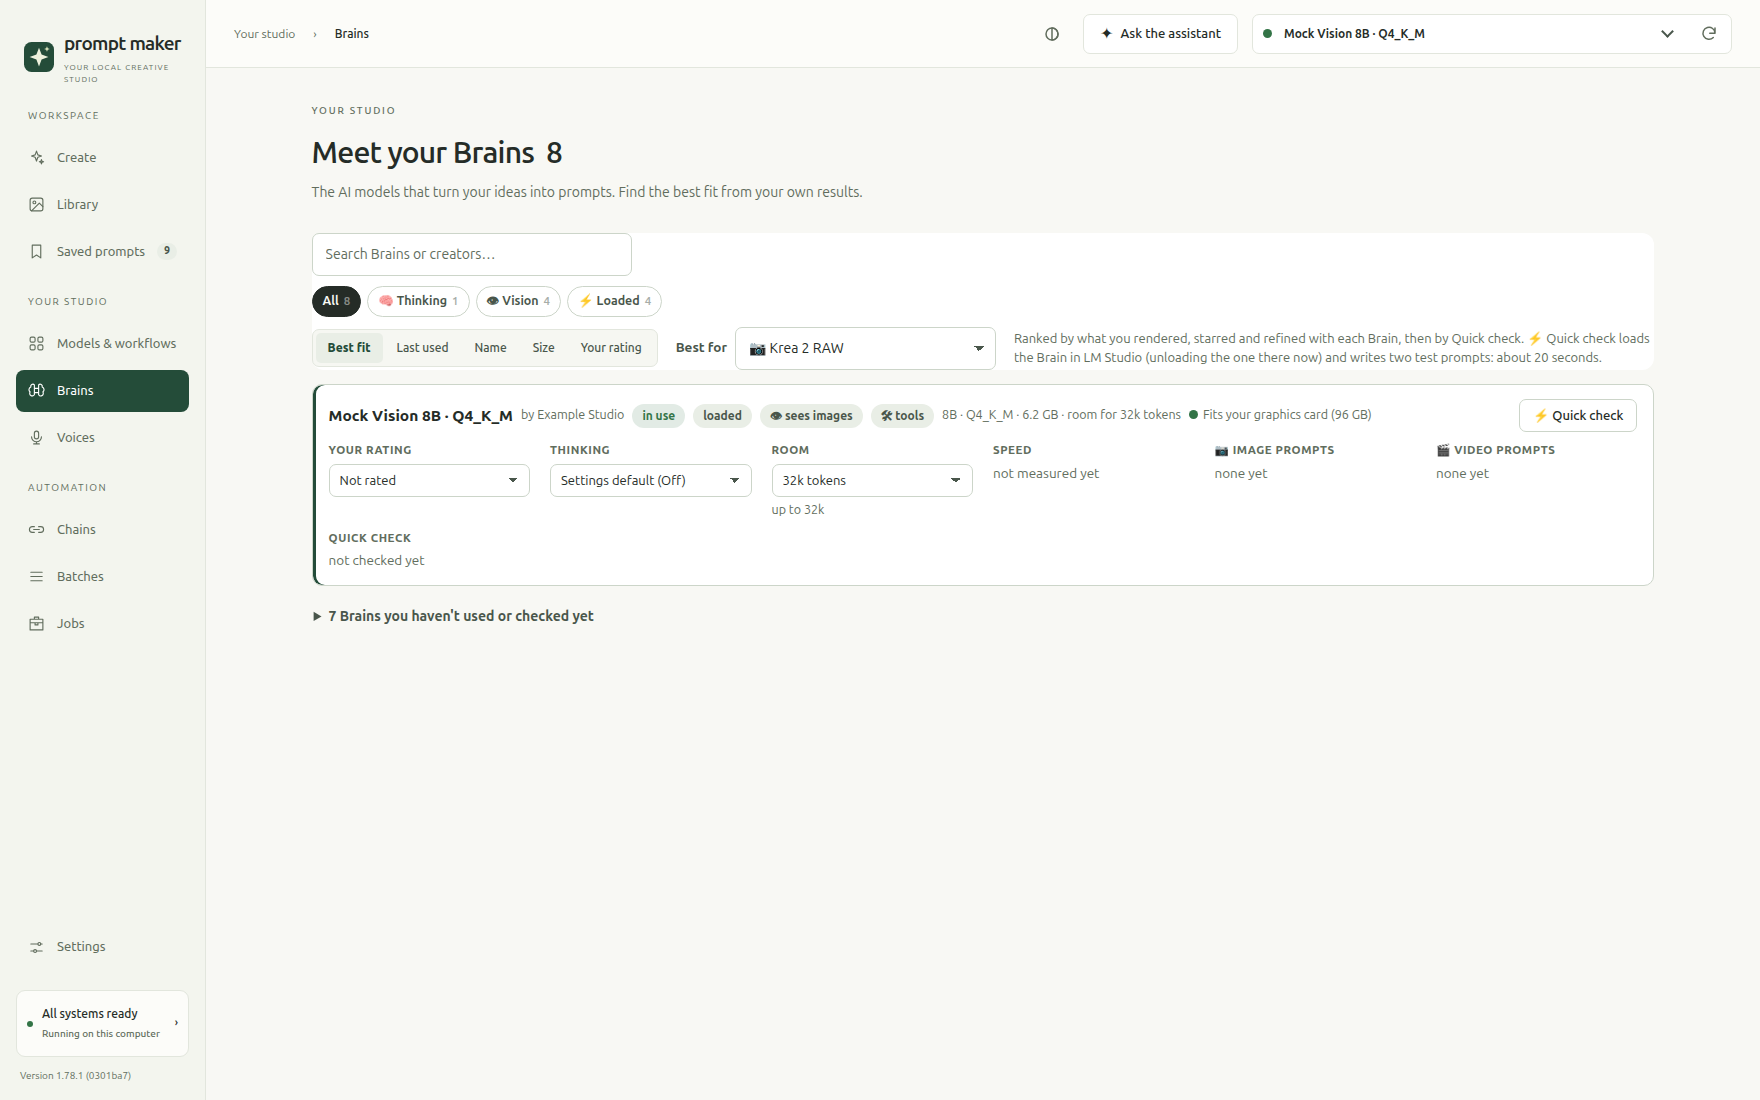
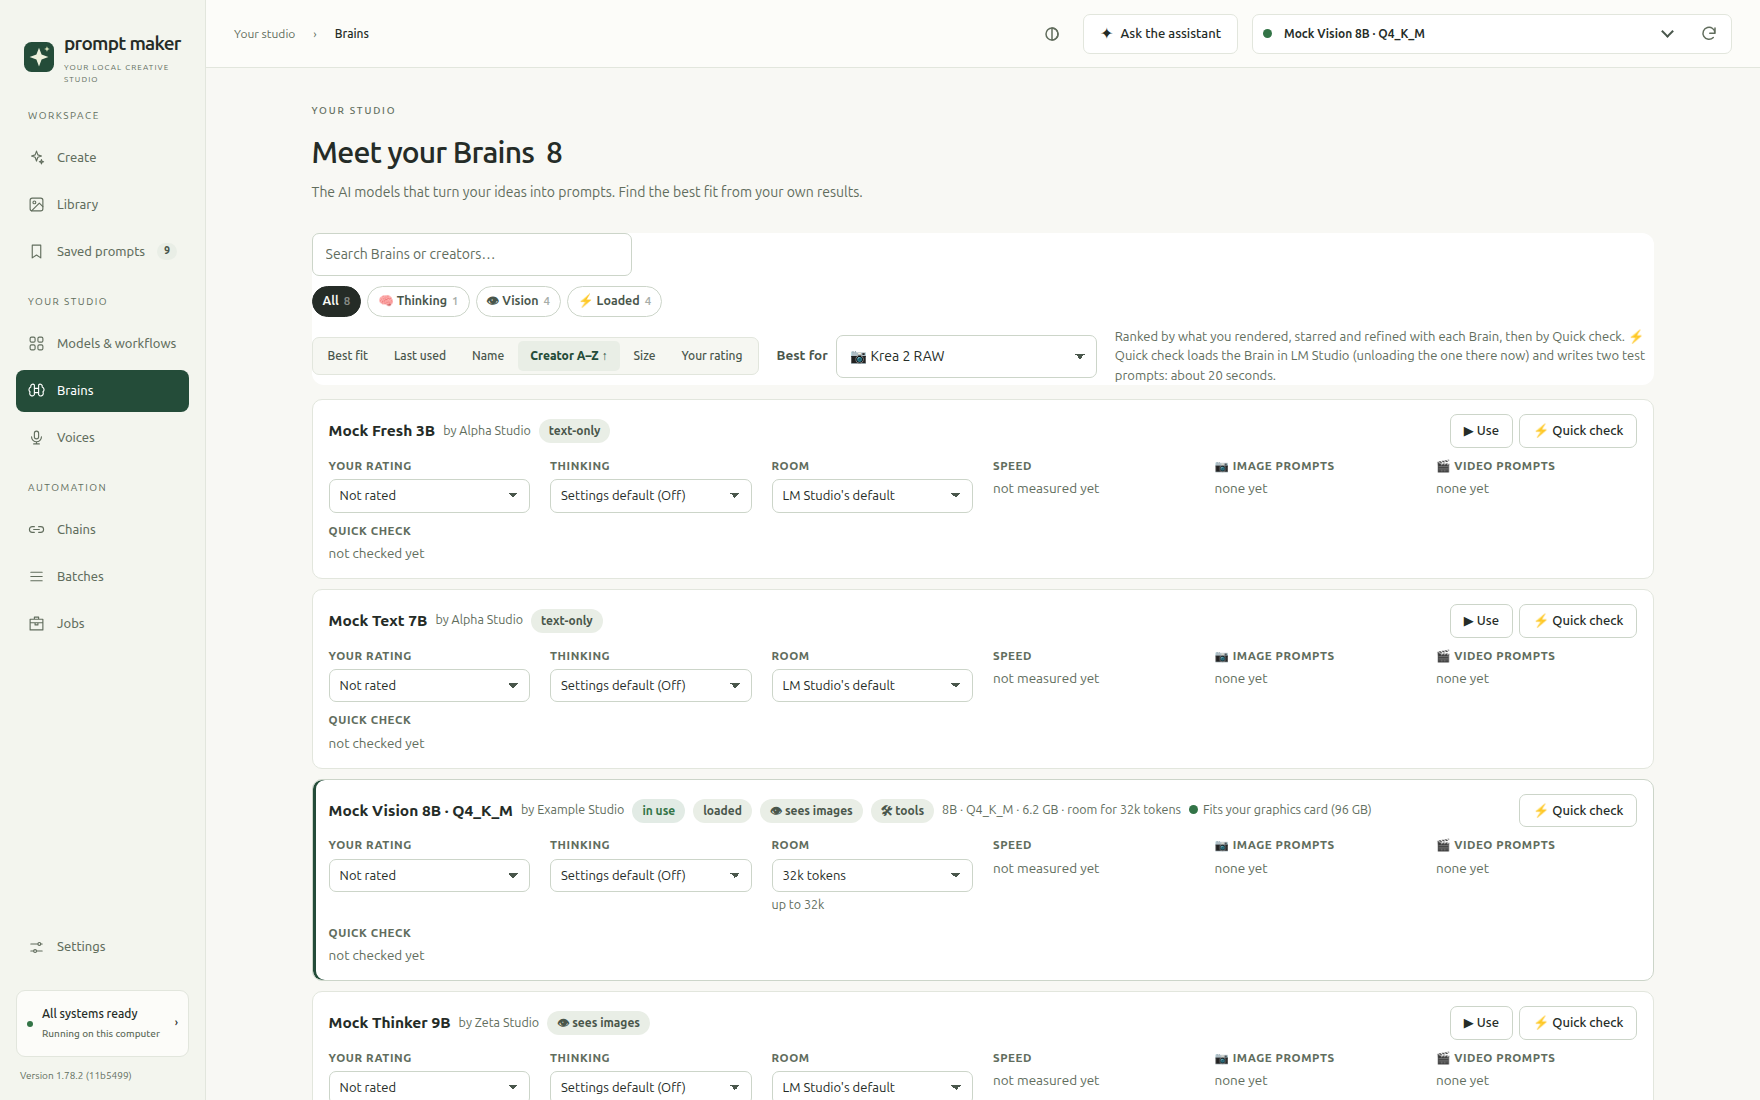
Sort Brains by creator in both model lists (1.78.2)

diff --git a/public/app.js b/public/app.js
@@ -1252,7 +1252,7 @@ const lastUsedAt = m => [m.stats?.lastUsed, m.record?.last].filter(Boolean).sort
 const escRe = str => str.replace(/[.*+?^${}()|[\]\\]/g, '\\$&');
 const searchWords = q => q.toLowerCase().split(/\s+/).filter(Boolean);
 let llmSort = saved.get('llmSort', 'smart');
-const naturalBrainSortDirection = sort => sort === 'name' ? 'asc' : 'desc';
+const naturalBrainSortDirection = sort => ['name', 'creator'].includes(sort) ? 'asc' : 'desc';
 const savedBrainSortDirection = (key, sort) => {
   const direction = saved.get(key, naturalBrainSortDirection(sort));
   return direction === 'asc' || direction === 'desc' ? direction : naturalBrainSortDirection(sort);
@@ -1280,6 +1280,12 @@ const byName = (a, b) => a.name.localeCompare(b.name);
 const byRecent = (a, b) => lastUsedAt(b).localeCompare(lastUsedAt(a)) || byName(a, b);
 const byBrainSort = (sort, direction) => {
   if (sort === 'name') return direction === 'asc' ? byName : (a, b) => byName(b, a);
+  if (sort === 'creator') return (a, b) => {
+    const ac = a.publisher || '', bc = b.publisher || '';
+    if (Boolean(ac) !== Boolean(bc)) return ac ? -1 : 1; // Unknown creators stay last in either direction.
+    const order = ac.localeCompare(bc, undefined, { sensitivity: 'base' });
+    return (direction === 'asc' ? order : -order) || byName(a, b);
+  };
   if (sort === 'recent') return direction === 'desc' ? byRecent : (a, b) => lastUsedAt(a).localeCompare(lastUsedAt(b)) || byName(a, b);
   if (sort === 'size') return (a, b) => {
     const as = a.cloud ? 0 : a.sizeBytes || 0, bs = b.cloud ? 0 : b.sizeBytes || 0;
@@ -1294,9 +1300,10 @@ const byBrainSort = (sort, direction) => {
   return byName;
 };
 const brainSortLabel = (sort, direction, active) => {
-  if (!active) return { recent: 'Last used', name: 'Name', size: 'Size', rating: 'Your rating' }[sort] || (sort === 'fit' ? 'Best fit' : 'Smart');
+  if (!active) return { recent: 'Last used', name: 'Name', creator: 'Creator', size: 'Size', rating: 'Your rating' }[sort] || (sort === 'fit' ? 'Best fit' : 'Smart');
   if (sort === 'recent') return direction === 'asc' ? 'First used ↑' : 'Last used ↓';
   if (sort === 'name') return direction === 'asc' ? 'Name A–Z ↑' : 'Name Z–A ↓';
+  if (sort === 'creator') return direction === 'asc' ? 'Creator A–Z ↑' : 'Creator Z–A ↓';
   if (sort === 'size') return direction === 'asc' ? 'Smallest first ↑' : 'Biggest first ↓';
   if (sort === 'rating') return direction === 'asc' ? 'Rating 😞–🤩 ↑' : 'Rating 🤩–😞 ↓';
   return sort === 'fit' ? 'Best fit' : 'Smart';
@@ -1320,6 +1327,7 @@ function renderLlmSortControl() {
   direction.textContent = {
     recent: llmSortDirection === 'asc' ? '↑ Oldest first' : '↓ Newest first',
     name: llmSortDirection === 'asc' ? '↑ A–Z' : '↓ Z–A',
+    creator: llmSortDirection === 'asc' ? '↑ A–Z' : '↓ Z–A',
     size: llmSortDirection === 'asc' ? '↑ Smallest first' : '↓ Biggest first',
     rating: llmSortDirection === 'asc' ? '↑ Lowest first' : '↓ Highest first',
   }[llmSort];
@@ -1428,7 +1436,7 @@ function llmMenuGroups(q, suggested) {
     hits.sort((a, b) => b.score - a.score || order(a.m, b.m));
     return [{ items: hits.map(x => x.m) }];
   }
-  if (llmSort === 'name') return [...head, { title: inUse.length ? 'All Brains' : '', items: [...others].sort(byBrainSort('name', llmSortDirection)) }];
+  if (['name', 'creator'].includes(llmSort)) return [...head, { title: inUse.length ? 'All Brains' : '', items: [...others].sort(byBrainSort(llmSort, llmSortDirection)) }];
   if (llmSort === 'size') {
     return [
       ...head,
@@ -6389,6 +6397,7 @@ function renderBrains() {
     fit: (a, b) => (b.m.id === inUse) - (a.m.id === inUse) || b.fit.score - a.fit.score || (b.m.stats?.runs || 0) - (a.m.stats?.runs || 0) || byName(a.m, b.m),
     recent: (a, b) => byBrainSort('recent', brainSortDirection)(a.m, b.m),
     name: (a, b) => byBrainSort('name', brainSortDirection)(a.m, b.m),
+    creator: (a, b) => byBrainSort('creator', brainSortDirection)(a.m, b.m),
     size: (a, b) => byBrainSort('size', brainSortDirection)(a.m, b.m),
     rating: (a, b) => byBrainSort('rating', brainSortDirection)(a.m, b.m),
   }[brainSort] || (() => 0);

diff --git a/public/index.html b/public/index.html
@@ -71,6 +71,7 @@
             <option value="smart">Recommended</option>
             <option value="recent">Last used</option>
             <option value="name">Name</option>
+            <option value="creator">Creator</option>
             <option value="size">Size</option>
             <option value="rating">Your rating</option>
           </select></label>
@@ -870,6 +871,7 @@
             <button type="button" data-sort="fit" role="radio">Best fit</button>
             <button type="button" data-sort="recent" role="radio">Last used</button>
             <button type="button" data-sort="name" role="radio">Name</button>
+            <button type="button" data-sort="creator" role="radio">Creator</button>
             <button type="button" data-sort="size" role="radio">Size</button>
           <button type="button" data-sort="rating" role="radio">Your rating</button>
           </div>

diff --git a/README.md b/README.md
@@ -65,6 +65,8 @@ You don't write the long, technical prompts these models want. You type a few wo
 
 ## What's new
 
+**1.78.2 — sort Brains by creator.** Pick **Creator** in the Brain menu or on the Brains page to see makers from A–Z; reverse it for Z–A. Models from the same creator sort by name, and models without a known creator stay at the end.
+
 **1.78.1 — see who made your Brain.** The Brain picker and Brains page show **by [creator]** when LM Studio supplies the creator's name. Search by creator, model name, or both to tell similar models apart. [See the picker](docs/screenshots/brain-picker.png) · [See the Brains page](docs/screenshots/brains.png).
 
 **1.78.0 — motion videos that skip, fixed.** A phone or screen recorder that can't keep up leaves frames out and sometimes flashes black, and Wan Animate 2 copied both: the moves sped up, slowed down and hitched. Now renders take such a video at the rate it keeps up all through (an even 15 fps for one that films 30 and drops frames), and its notes say so. When frames are missing or it flashes black, **✨ Smooth it** swaps in a steady 24 fps copy with the gaps filled and the black taken out, to watch before you render.
